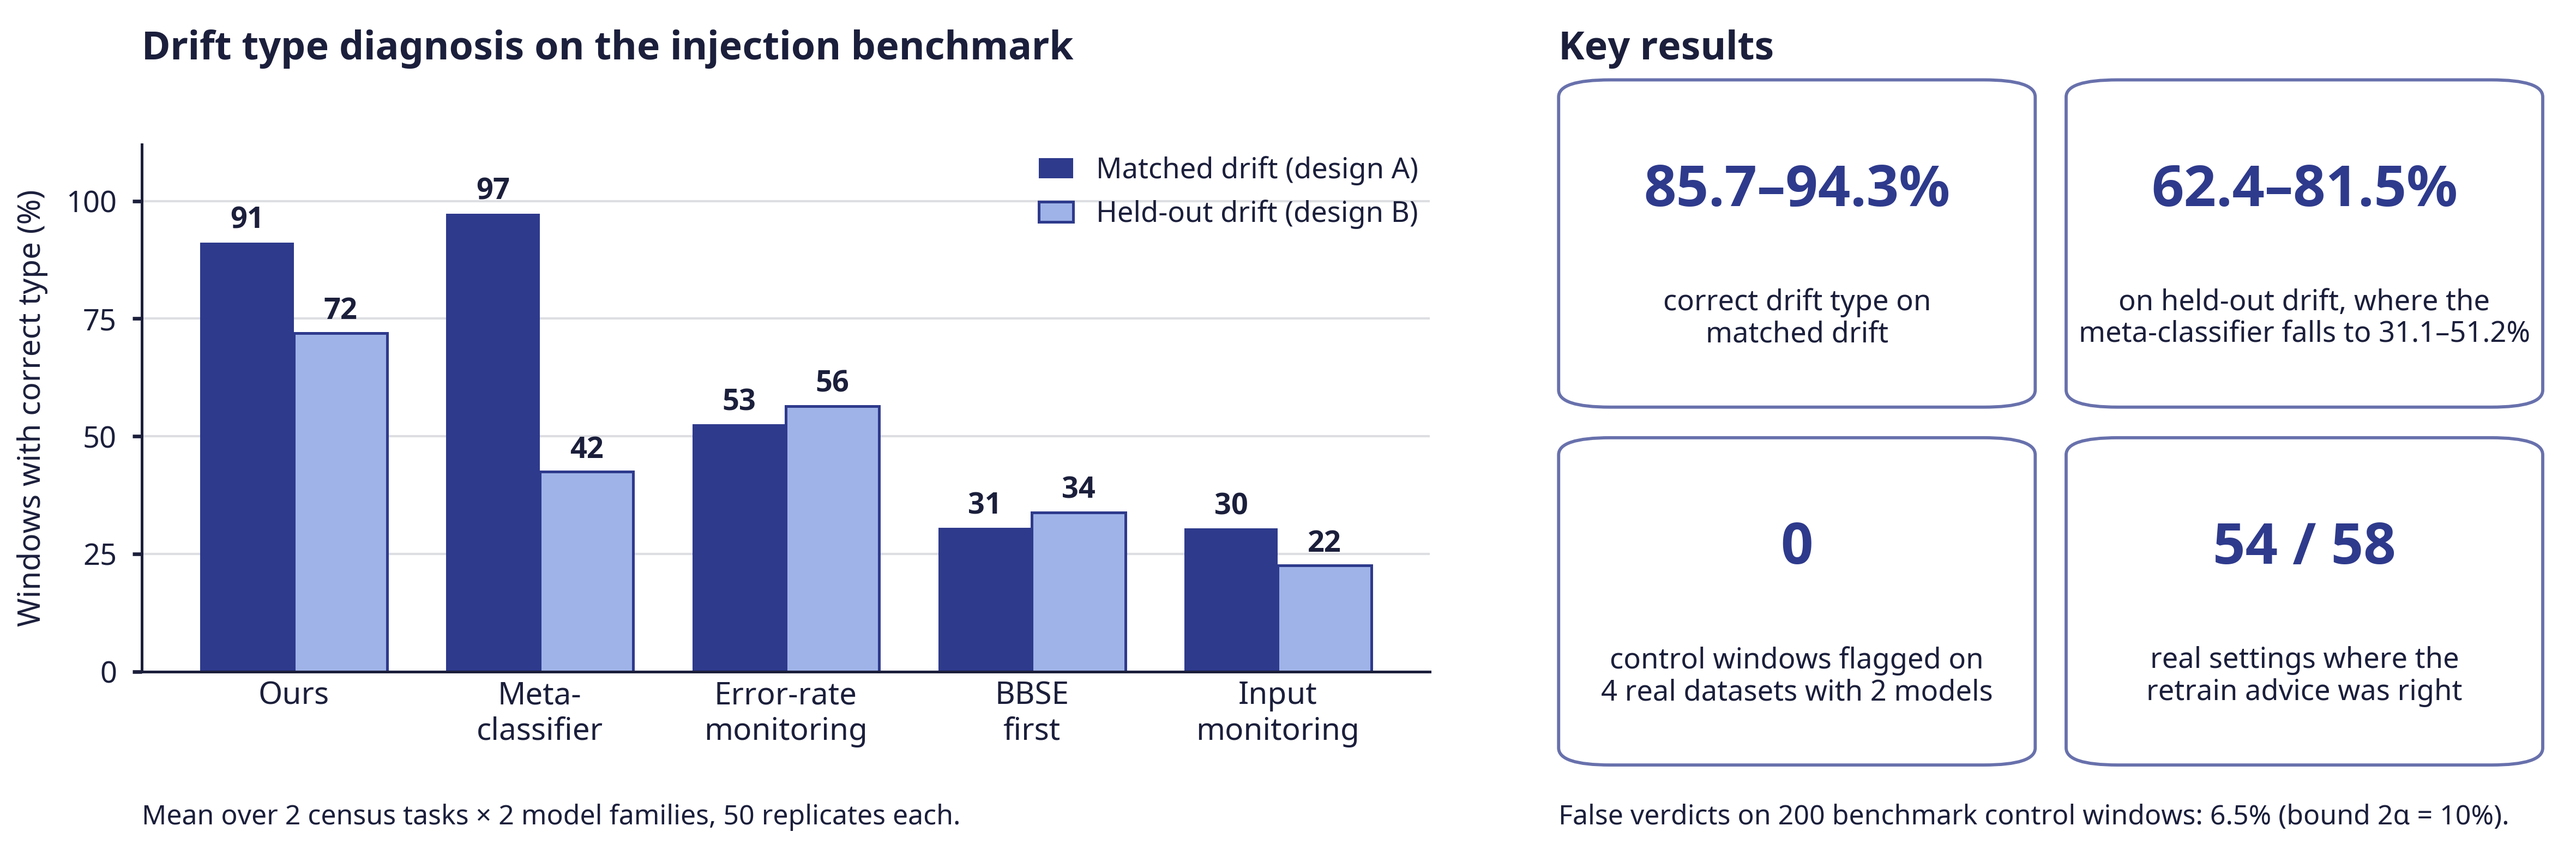
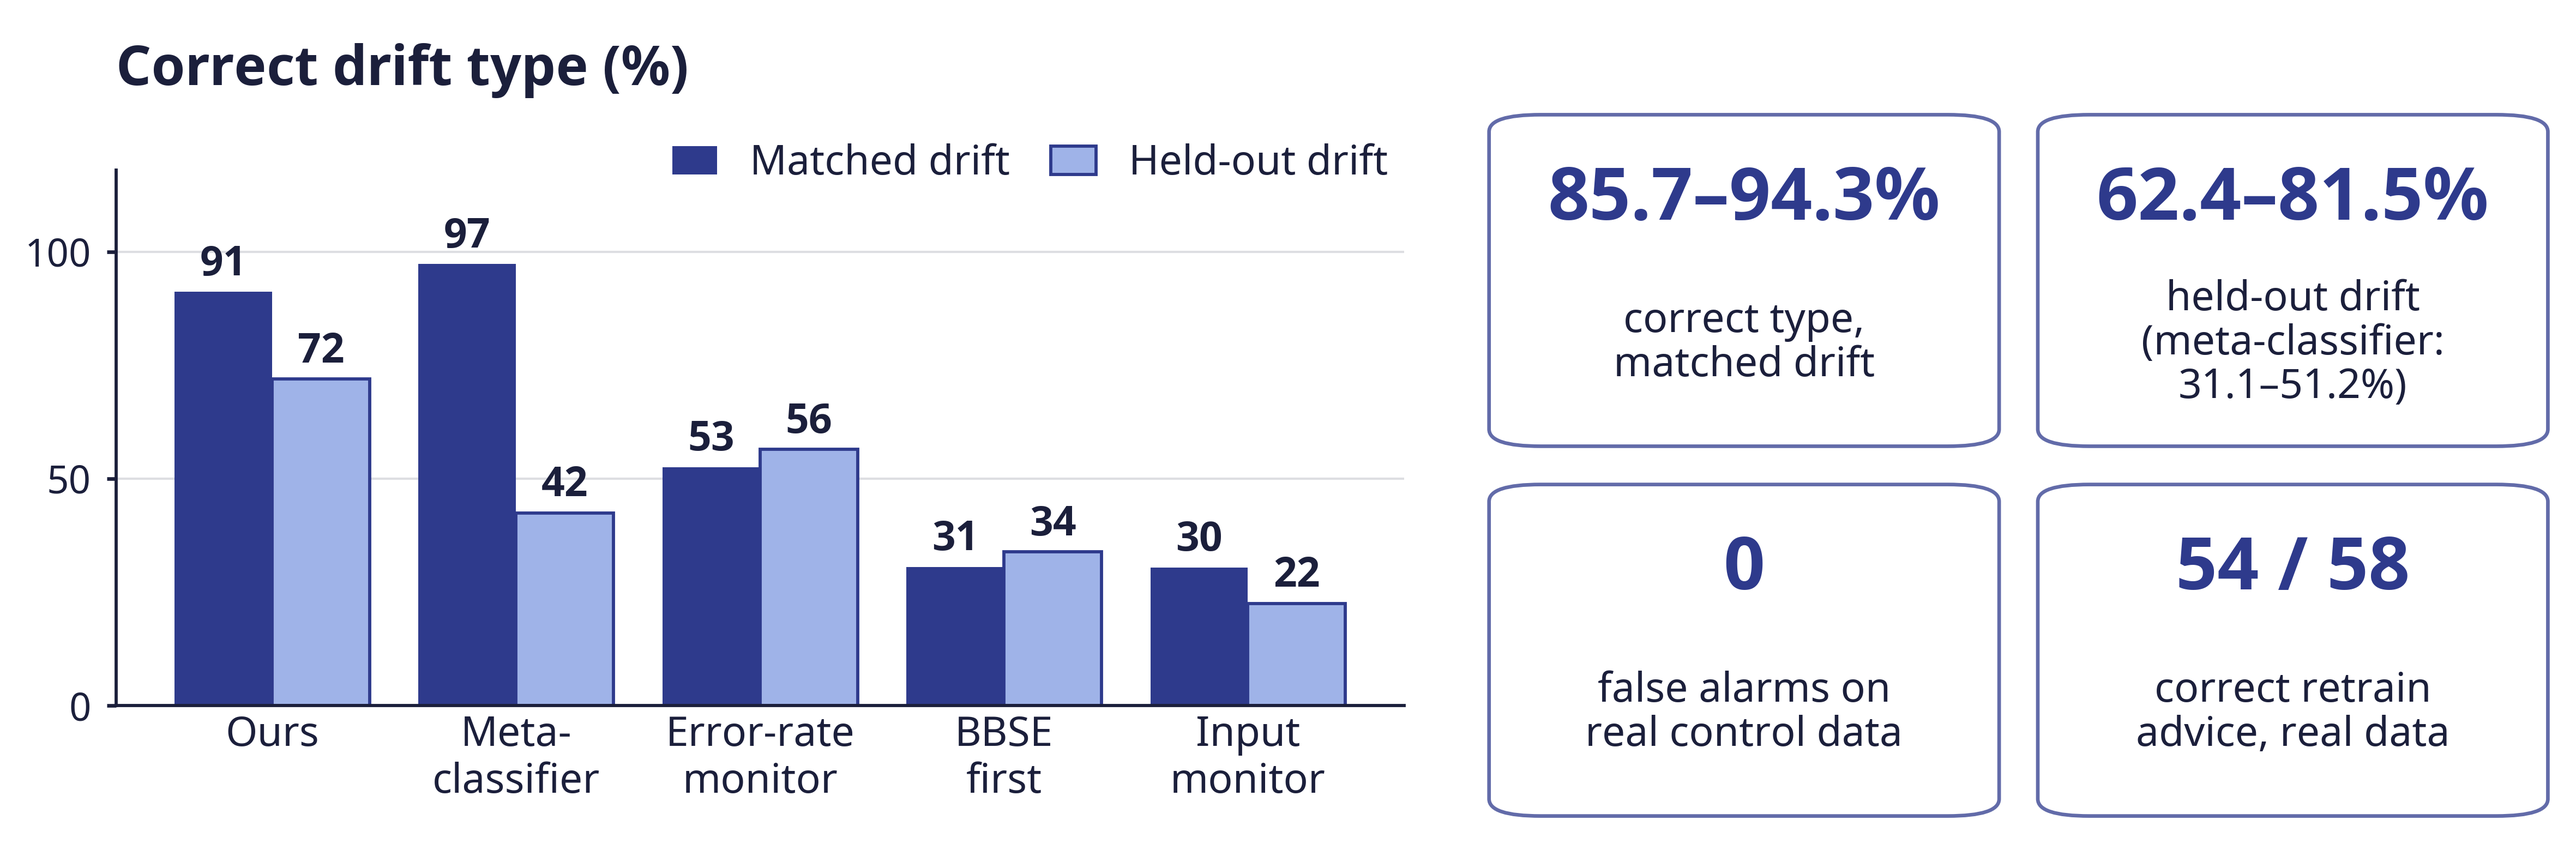
Poster results panel: larger, shorter text for legibility
Claude-Session: https://claude.ai/code/session_01Q2jh3ncUT27YtGPEiV2BVS

diff --git a/poster/make_results_panel.py b/poster/make_results_panel.py
@@ -27,8 +27,8 @@ WIDTH_CM, HEIGHT_CM, DPI = 20.0, 6.6, 600
 INK, NAVY, LIGHT = "#1b1f3b", "#2e3a8c", "#9fb3e8"
 
 METHODS = [("Ours (hierarchical tests)", "Ours"), ("Learned meta-classifier", "Meta-\nclassifier"),
-           ("Error-rate monitoring", "Error-rate\nmonitoring"), ("BBSE first", "BBSE\nfirst"),
-           ("Input monitoring", "Input\nmonitoring")]
+           ("Error-rate monitoring", "Error-rate\nmonitor"), ("BBSE first", "BBSE\nfirst"),
+           ("Input monitoring", "Input\nmonitor")]
 
 
 def method_means():
@@ -55,58 +55,53 @@ def main() -> None:
     fig.patch.set_alpha(0)
 
     # left: correct drift type per method, matched against held-out drift
-    ax = fig.add_axes([0.055, 0.21, 0.50, 0.62])
+    ax = fig.add_axes([0.045, 0.17, 0.50, 0.63])
     ax.patch.set_alpha(0)
     x = range(len(METHODS))
-    w = 0.38
+    w = 0.4
     a = [means[m]["A"] for m, _ in METHODS]
     b = [means[m]["B"] for m, _ in METHODS]
-    bars_a = ax.bar([i - w / 2 for i in x], a, w, color=NAVY, label="Matched drift (design A)")
-    bars_b = ax.bar([i + w / 2 for i in x], b, w, color=LIGHT, edgecolor=NAVY, linewidth=0.6,
-                    label="Held-out drift (design B)")
+    bars_a = ax.bar([i - w / 2 for i in x], a, w, color=NAVY, label="Matched drift")
+    bars_b = ax.bar([i + w / 2 for i in x], b, w, color=LIGHT, edgecolor=NAVY, linewidth=0.7,
+                    label="Held-out drift")
     for bars in (bars_a, bars_b):
         for bar in bars:
             ax.text(bar.get_x() + bar.get_width() / 2, bar.get_height() + 1.5, f"{bar.get_height():.0f}",
-                    ha="center", va="bottom", fontsize=6.5, fontweight="bold")
-    ax.set_xticks(list(x), [short for _, short in METHODS], fontsize=6.8)
-    ax.set_ylim(0, 112)
-    ax.set_yticks([0, 25, 50, 75, 100])
-    ax.tick_params(axis="y", labelsize=6.5, length=2)
+                    ha="center", va="bottom", fontsize=9, fontweight="bold")
+    ax.set_xticks(list(x), [short for _, short in METHODS], fontsize=9)
+    ax.set_ylim(0, 118)
+    ax.set_yticks([0, 50, 100])
+    ax.tick_params(axis="y", labelsize=8.5, length=2)
     ax.tick_params(axis="x", length=0, pad=2)
-    ax.set_ylabel("Windows with correct type (%)", fontsize=6.8)
     for side in ("top", "right"):
         ax.spines[side].set_visible(False)
     for side in ("left", "bottom"):
         ax.spines[side].set_color(INK)
-        ax.spines[side].set_linewidth(0.6)
+        ax.spines[side].set_linewidth(0.7)
     ax.grid(axis="y", color=INK, alpha=0.15, linewidth=0.5)
     ax.set_axisbelow(True)
-    ax.legend(loc="upper right", fontsize=6.3, frameon=False, ncol=1, handlelength=1.2, borderaxespad=0)
-    fig.text(0.055, 0.93, "Drift type diagnosis on the injection benchmark", fontsize=8.6, fontweight="bold")
-    fig.text(0.055, 0.03, f"Mean over 2 census tasks × 2 model families, {r['bench-nreps']} replicates each.",
-             fontsize=6)
+    ax.legend(loc="upper right", fontsize=9, frameon=False, ncol=2, handlelength=1.1, columnspacing=1.0,
+              borderaxespad=0, bbox_to_anchor=(1.0, 1.08))
+    fig.text(0.045, 0.9, "Correct drift type (%)", fontsize=12, fontweight="bold")
 
     # right: headline numbers
     tiles = [
-        (f"{r['bench-a-ours-min']}–{r['bench-a-ours-max']}%", "correct drift type on\nmatched drift"),
+        (f"{r['bench-a-ours-min']}–{r['bench-a-ours-max']}%", "correct type,\nmatched drift"),
         (f"{r['bench-b-ours-min']}–{r['bench-b-ours-max']}%",
-         f"on held-out drift, where the\nmeta-classifier falls to {r['bench-b-meta-min']}–{r['bench-b-meta-max']}%"),
-        (f"{ctrl_flagged}", "control windows flagged on\n4 real datasets with 2 models"),
-        (f"{r['rem-recent-correct']} / {r['rem-recent-n']}", "real settings where the\nretrain advice was right"),
+         f"held-out drift\n(meta-classifier:\n{r['bench-b-meta-min']}–{r['bench-b-meta-max']}%)"),
+        (f"{ctrl_flagged}", "false alarms on\nreal control data"),
+        (f"{r['rem-recent-correct']} / {r['rem-recent-n']}", "correct retrain\nadvice, real data"),
     ]
-    x0, y0, tw, th, gap = 0.605, 0.10, 0.185, 0.385, 0.012
+    x0, y0, tw, th, gap = 0.578, 0.04, 0.198, 0.39, 0.015
     for k, (big, small) in enumerate(tiles):
         col, row = k % 2, 1 - k // 2
         tx, ty = x0 + col * (tw + gap), y0 + row * (th + gap * 3)
         fig.patches.append(FancyBboxPatch((tx, ty), tw, th, boxstyle="round,pad=0,rounding_size=0.02",
-                                          transform=fig.transFigure, facecolor="white", alpha=0.72,
-                                          edgecolor=NAVY, linewidth=0.7))
-        fig.text(tx + tw / 2, ty + th * 0.66, big, ha="center", va="center", fontsize=12.5,
+                                          transform=fig.transFigure, facecolor="white", alpha=0.75,
+                                          edgecolor=NAVY, linewidth=0.8))
+        fig.text(tx + tw / 2, ty + th * 0.74, big, ha="center", va="center", fontsize=16,
                  fontweight="bold", color=NAVY)
-        fig.text(tx + tw / 2, ty + th * 0.27, small, ha="center", va="center", fontsize=6.3, linespacing=1.15)
-    fig.text(x0, 0.93, "Key results", fontsize=8.6, fontweight="bold")
-    fig.text(x0, 0.03, f"False verdicts on {r['det-ncontrols']} benchmark control windows: {r['diag-fa-pct']}% "
-             f"(bound 2α = 10%).", fontsize=6)
+        fig.text(tx + tw / 2, ty + th * 0.31, small, ha="center", va="center", fontsize=9, linespacing=1.1)
 
     fig.savefig(OUT, dpi=DPI, transparent=True)
     print(f"{OUT.relative_to(ROOT)}: {WIDTH_CM} x {HEIGHT_CM} cm at {DPI} dpi")
